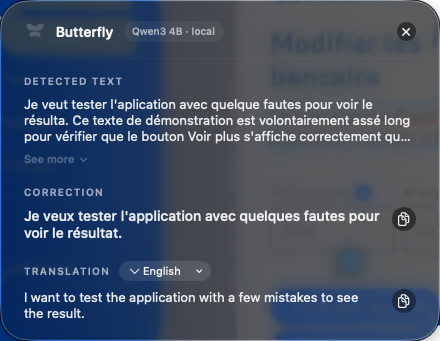
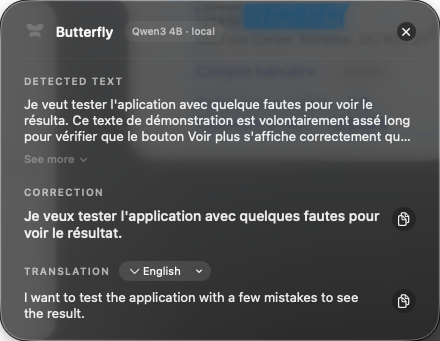
README : captures à jour (panneau, historique, réglages) + note signature stable

diff --git a/README.md b/README.md
@@ -66,7 +66,7 @@ Au premier **⌥⌘B**, macOS demande l'autorisation d'enregistrement de l'écra
 2. macOS propose **« Quitter et rouvrir »** : clique ce bouton, c'est obligatoire.
 3. Re-appuie sur ⌥⌘B, c'est parti.
 
-> Note : l'app est signée localement (ad hoc). Si tu re-buildes une nouvelle version, macOS oubliera l'autorisation ; purge l'entrée avec `tccutil reset ScreenCapture com.leoguillon.butterfly` puis ré-accorde-la.
+> Note : par défaut l'app est signée localement (ad hoc). Si tu re-buildes une nouvelle version, macOS oubliera les autorisations ; purge les entrées avec `tccutil reset ScreenCapture com.leoguillon.butterfly` (et `Accessibility`) puis ré-accorde-les. Pour que les permissions survivent aux rebuilds, crée une fois un certificat local de confiance nommé « Butterfly Dev » (certificat self-signed avec l'extension codeSigning, importé et approuvé dans ton trousseau de session) : `scripts/build.sh` le détecte et signe avec automatiquement.
 
 ## Raccourcis
 
@@ -81,6 +81,14 @@ Au premier **⌥⌘B**, macOS demande l'autorisation d'enregistrement de l'écra
 | Fermer un panneau | Échap ou clic ailleurs |
 
 Le raccourci « texte sélectionné » saute la loupe et l'OCR : il lit directement la sélection de l'app active (via l'API Accessibilité, avec repli sur une copie silencieuse qui restaure ton presse-papiers). Il demande une permission supplémentaire au premier usage : Réglages Système → Confidentialité et sécurité → **Accessibilité** → activer Butterfly.
+
+### Personnaliser les raccourcis
+
+Clic droit sur l'icône papillon → **Réglages…**, clique un raccourci puis tape la nouvelle combinaison (au moins ⌘, ⌥ ou ⌃).
+
+<p align="center">
+  <img src="assets/screenshot-settings.png" width="400" alt="Réglages des raccourcis" />
+</p>
 
 ## Vie privée
 